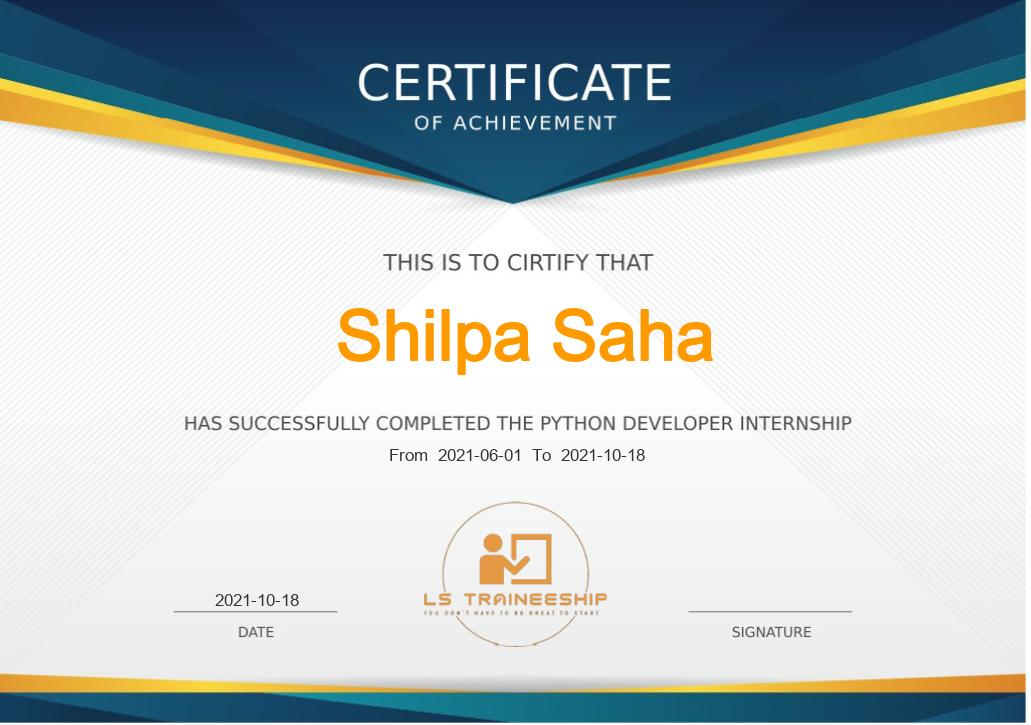
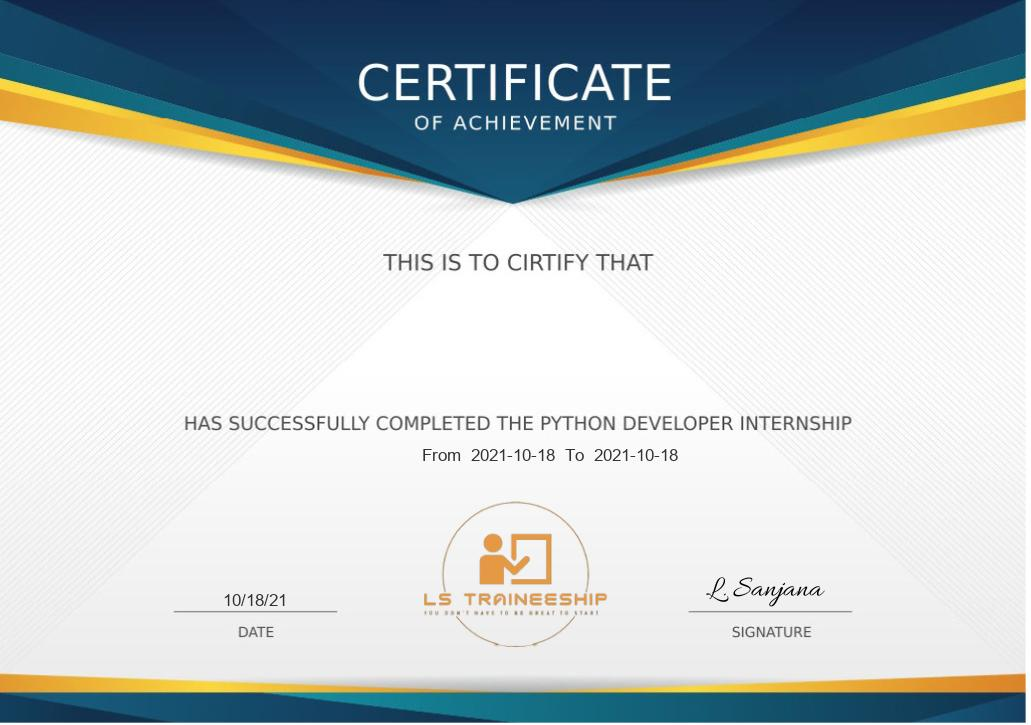
updated

diff --git a/test.py b/test.py
@@ -26,7 +26,7 @@ msg=st.text_input("Enter name")
 start=st.date_input('Enter start date')
 end=st.date_input('Enter end date')
 # issue=end
-W, W1, W2,W3 = (1119,1100,590,1630)
+W, W1, W2,W3 = (1119,1100,510,1530)
 font = ImageFont.truetype('arial.ttf',70)
 font2 = ImageFont.truetype('arial.ttf',17)
 font3 = ImageFont.truetype('Allura-Regular.ttf',30)
